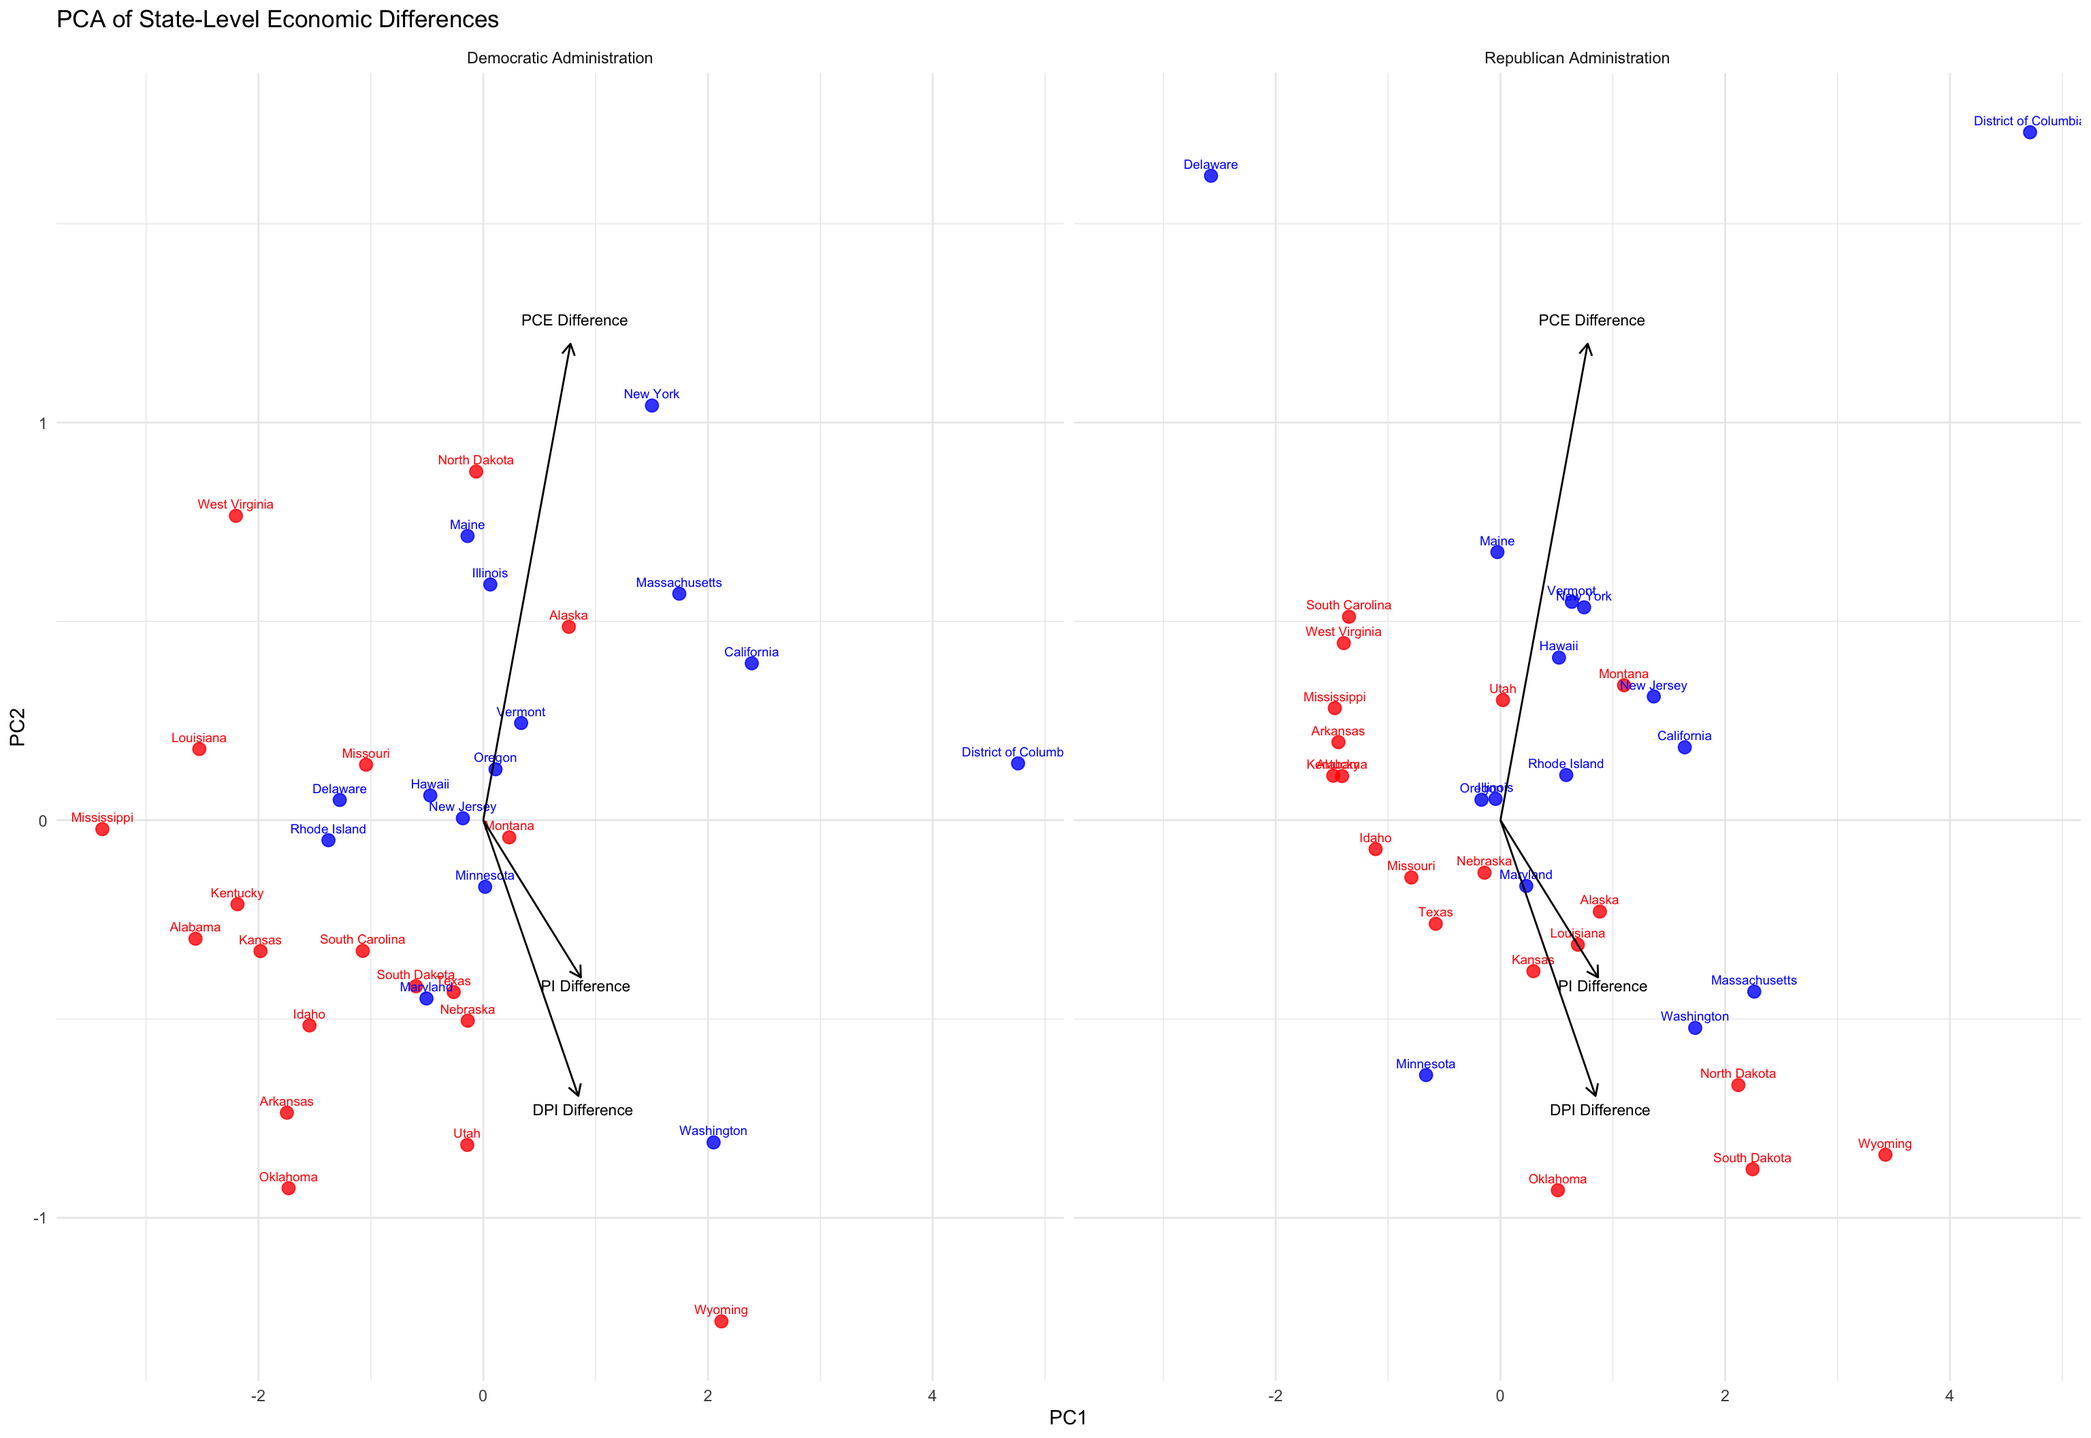
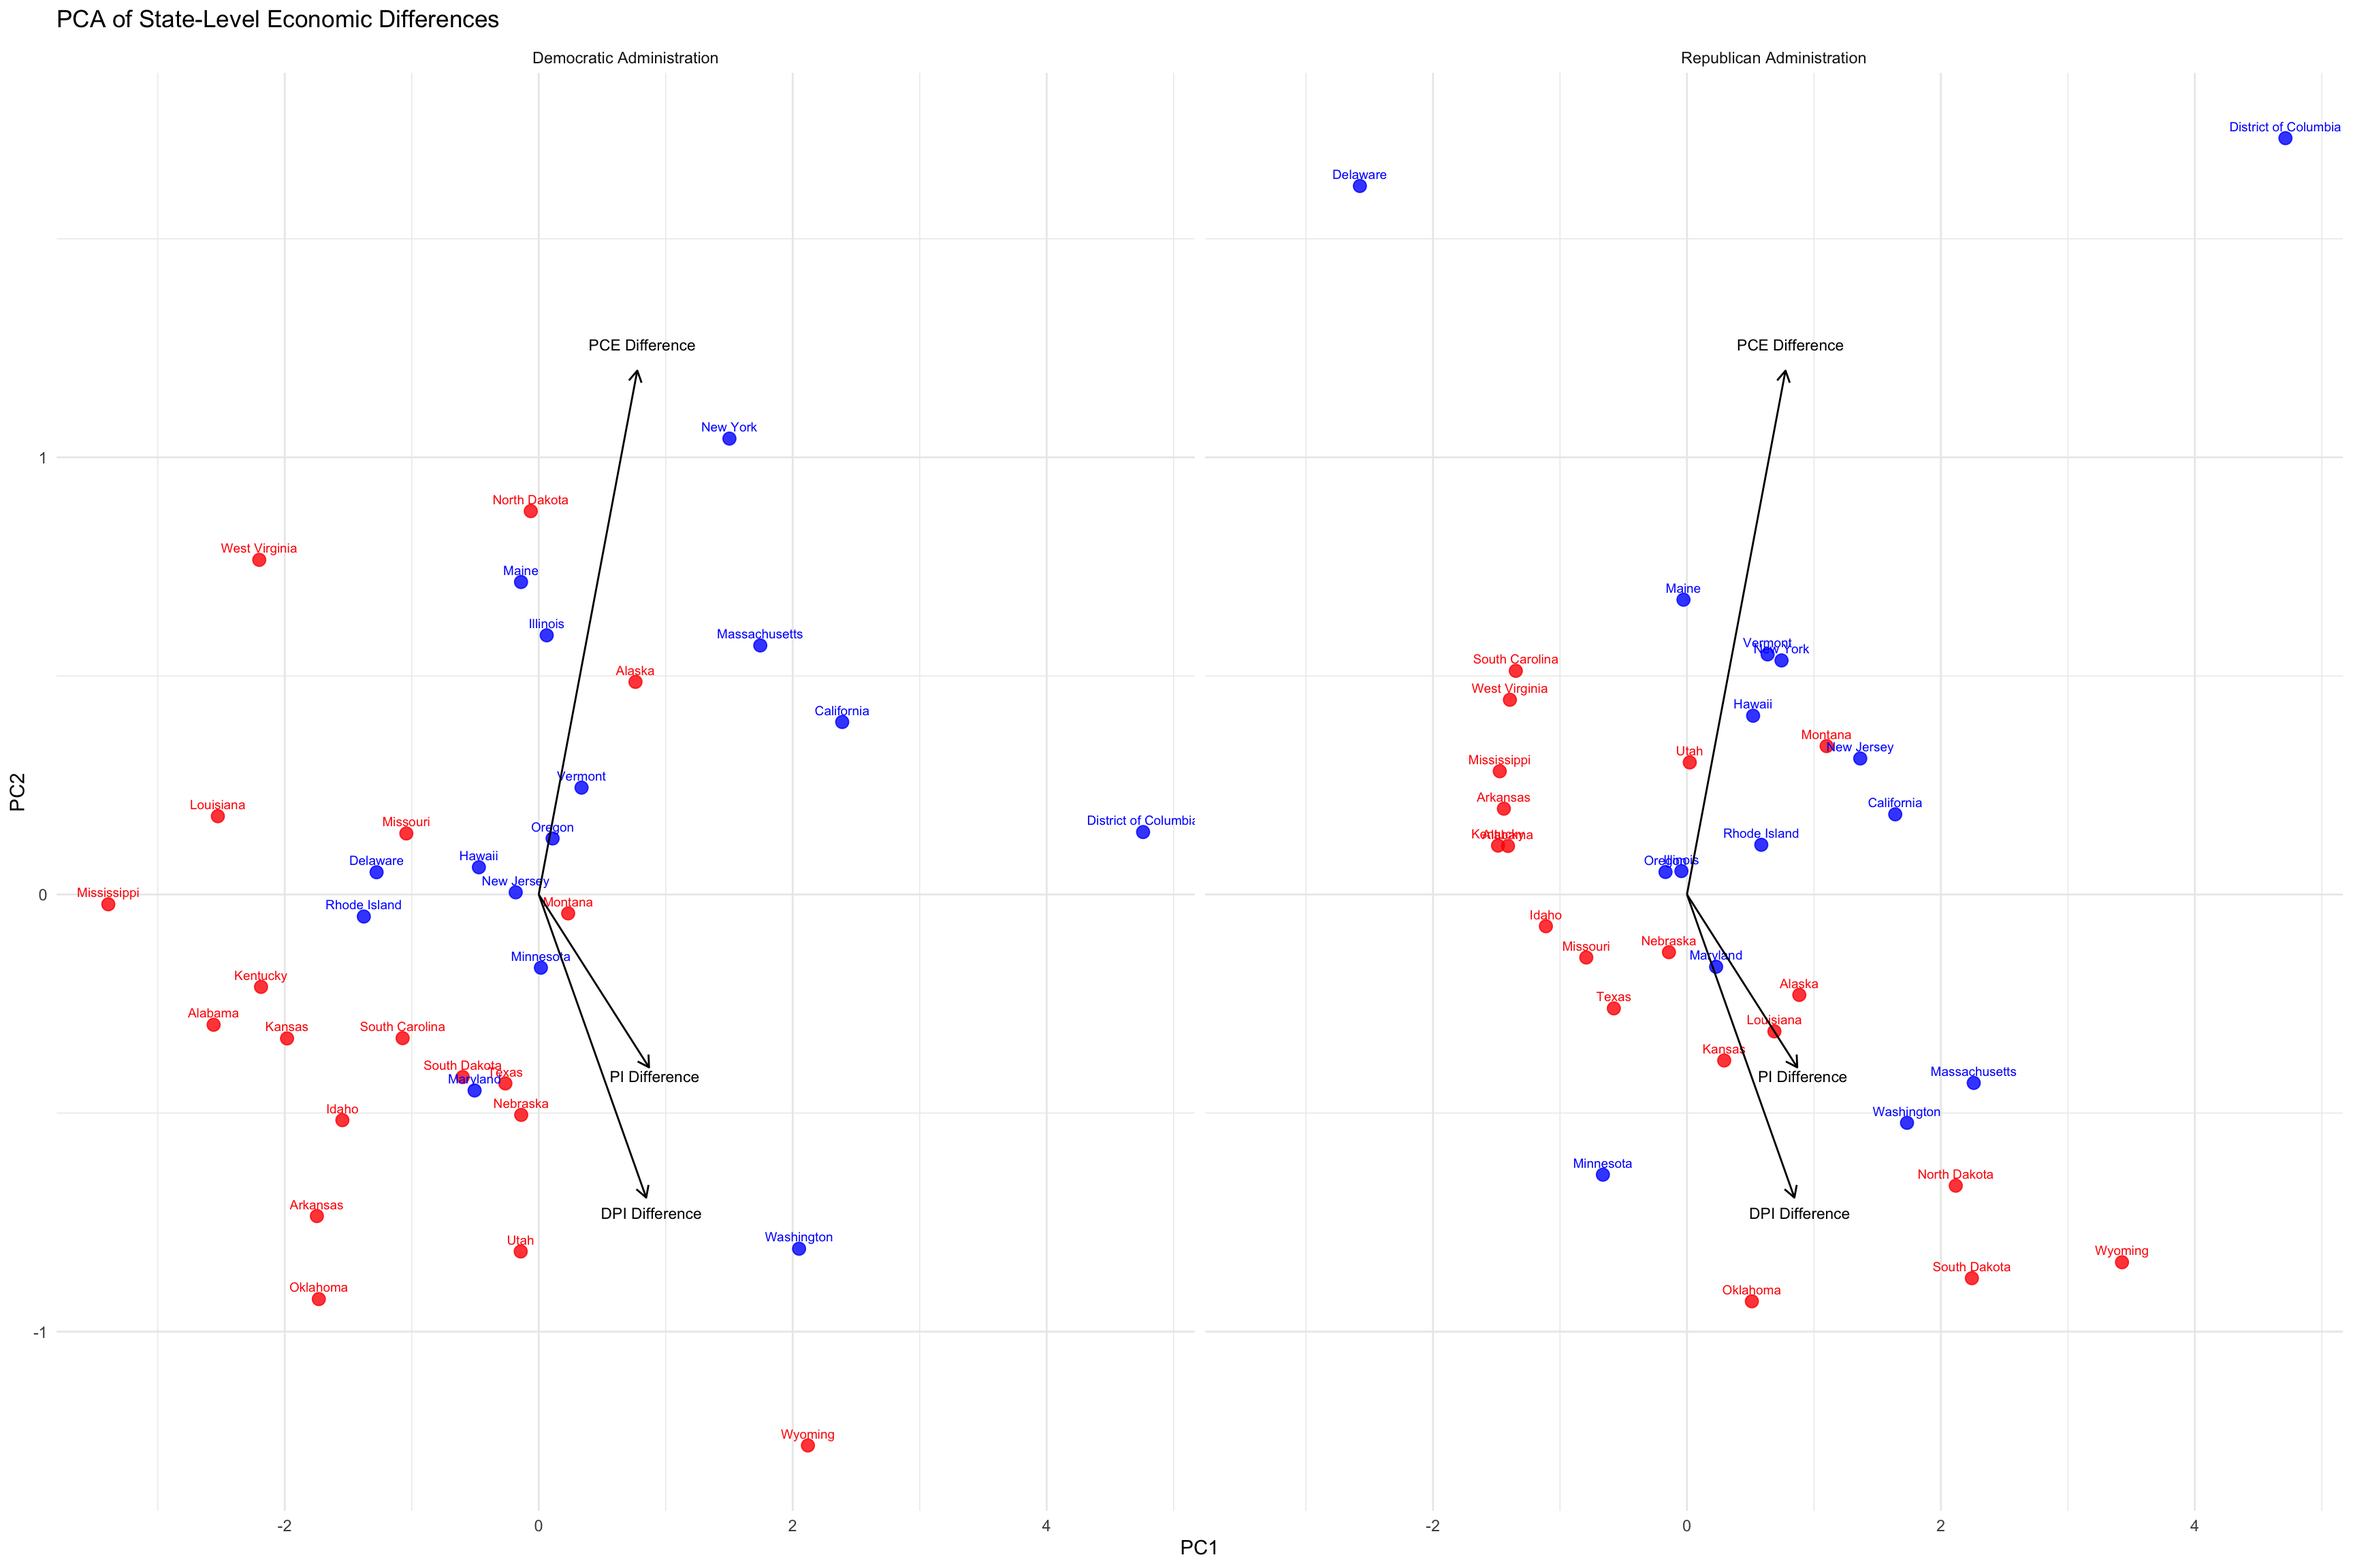
ok last one for real

diff --git a/docs/results.html b/docs/results.html
@@ -773,13 +773,13 @@ pre > code.sourceCode > span > a:first-child::before { text-decoration: underlin
 <div class="cell-output-display">
 <div>
 <figure class="figure">
-<p><img src="results_files/figure-html/unnamed-chunk-10-1.png" class="img-fluid figure-img" width="1536"></p>
+<p><img src="results_files/figure-html/unnamed-chunk-10-1.png" class="img-fluid figure-img" width="1728"></p>
 </figure>
 </div>
 </div>
 </div>
 <p>These biplots map the same PCA lines but adjust the location of the states to see specific trends across different political administrations. There are clear differences in location and clustering between presidential parties. Under Republican presidents, there is a clear cluster of states with high disposable personal income and personal income: Oklahoma, North Dakota, South Dakota, and Wyoming. Additionally, under Republican presidents, Democratic states tend to be more clustered around the middle of each variable. Comparatively, under Democratic presidents, Democratic states are slightly more spread out, specifically higher on personal consumption expenditures.</p>
-<p>Furthermore, certain states fluctuate more than other states, even within the same political party. For example, North Dakota is high for disposable personal income and personal income under Republican presidents, but is high for personal consumption expenditures under Democratic presidents. Additionally, Delaware is around the middle for each variable under Democratic states, but a far outlier lower on disposable personal income, personal income, and high for personal consumption expenditures. This pattern of state specific differences follows the patterns identified for unemployment rate, highlighting that certain states experience bigger changes, and there may exist natural groupings amongst these states, beyond political party.</p>
+<p>Furthermore, certain states fluctuate more than other states, even within the same political party. For example, North Dakota is high for disposable personal income and personal income under Republican presidents, but is high for personal consumption expenditures under Democratic presidents. Additionally, Delaware is around the middle for each variable under Democratic states, but a far outlier lower on disposable personal income, personal income, and high for personal consumption expenditures. This pattern of state specific differences follows the patterns identified for unemployment rate, highlighting that certain states experience bigger changes, and there may exist natural groupings among these states, beyond political party.</p>
 <p>Lastly, looking at clusters, larger, more populated states, like California, New York, Massachusetts, are bigger outliers under Democratic administrations. Comparatively, under Republican administrates they tend to be closer with other states.</p>
 </section>
 <section id="summary" class="level2" data-number="3.4">
